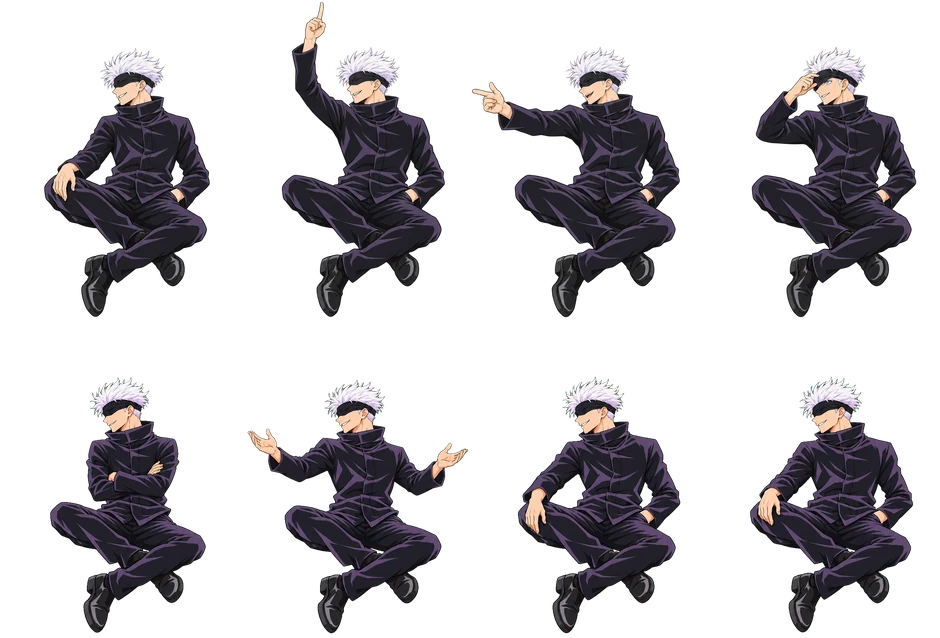
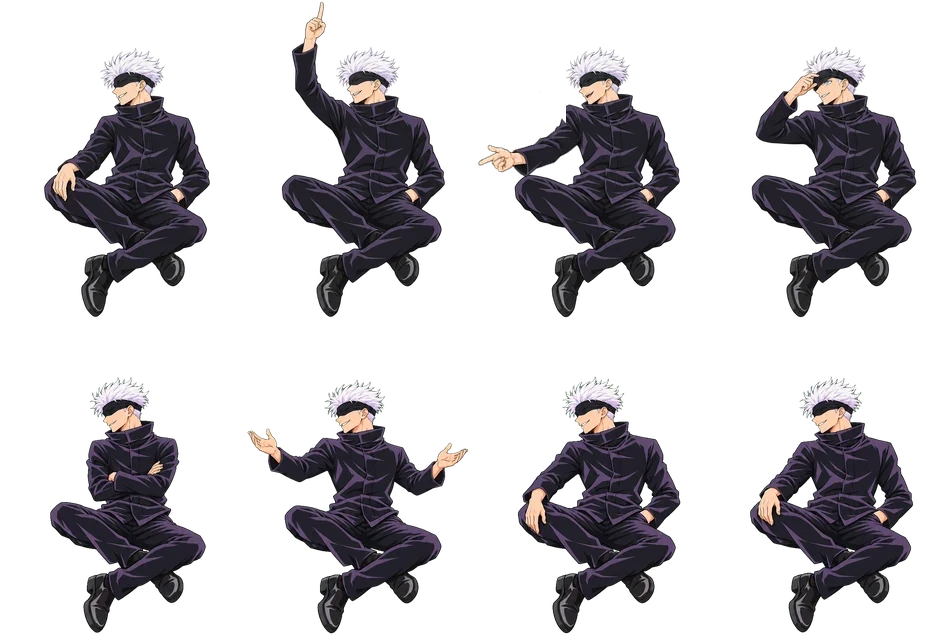
feat: 精美1 B15 出手帧手臂往下转 38°、指尖对准左下的她（切件转臂，B15_gojo/armswing.py），hold.throw 跟着换
原 throw 指尖水平，光球从水平的手里往左下 40° 射（trio_tune 补帧名单）。身子逐像素不变。combo_scan buddy 0 / 0 / 0；正式页 sweep 0 errors。

Changed region(s): [[0.4936, 0.1191, 0.617, 0.268]]

diff --git a/chashouji/web/trio_buddy.js b/chashouji/web/trio_buddy.js
@@ -421,7 +421,7 @@ const TRIO_BUDDY = {
       flex: { idle: [[160, 5, 290, 45, 'b', 3, 0.8]] },   // 冲天白发顶：底边钉住，发梢颤
       /* 紫色光球（raw/orb_src.png，part.py w 140；平面贴图，圆的，转着飞）：wind 帧聚在举起的指尖上方，throw 帧指尖一弹射出去 */
       atk: { kind: 'throw', item: 'orb', prop: 'assets/trio/B15_orb.webp', scale: 0.5,
-             seq: [['wind', 0.35], ['throw', 0.1, 'fire'], ['follow', 0.45]], hold: { wind: [86, -20], throw: [0, 90] },
+             seq: [['wind', 0.35], ['throw', 0.1, 'fire'], ['follow', 0.45]], hold: { wind: [86, -20], throw: [6.5, 164.9] },   // throw 手臂往下转 38° 对准她（buddy/B15_gojo/armswing.py）
              T: 0.4, arc: 0.1, spin: 8, stretch: 0.03, gap: [0.6, 1.0] },
     },
 

diff --git a/chashouji/web/trio_tune.js b/chashouji/web/trio_tune.js
@@ -34,7 +34,7 @@ const TRIO_TUNE = {
   B11: { dir: { throw: 16 } },
   B23: { dir: { throw: 60 }, at: { cell: [510, 294], hold: { throw: [124, 41] } } },   // 三刀往左上扫（复核 4.6-5：刀尖往左上 ≈ 60°）；剑气从上面那把刀的刀尖出（throw 格量）
   B14: { dir: { throw: -67 } },
-  // B15：指尖弹出的光球是能量（走直线、不受重力）—— 手没对准落点，进补帧名单，不写 dir（不让光球按抛物线落）
+  // B15：指尖弹出的光球是能量（走直线、不受重力），不写 dir；throw 手臂已往下转 38° 对准落点（2026-10-02，buddy/B15_gojo/armswing.py）
   B17: { dir: { throw: 0 } },
   B18: { dir: { throw: -15 } },
   B21: { dir: { throw: -52.3 } },

diff --git a/chashouji/v14/trio/buddy/B15_gojo/armswing.py b/chashouji/v14/trio/buddy/B15_gojo/armswing.py
@@ -1,0 +1,18 @@
+"""B15 出手帧（throw）手臂往下转 ROT 度，指尖对准左下方的她（2026-10-02 总控；精1 P12 / trio_tune 补帧名单：手没对准落点）。
+出手点在屏幕 (723, 441)，她的脸在左下约 40°，原 throw 指尖水平向左。throw 帧肩口以左（x < CUT）的整段手臂落在透明背景上，
+抠出来绕肩点转、原位清掉、贴回 —— 身子、头、腿逐像素不变（同 bestie/G8_elsa、G7_yor 的 armswing.py）。
+直接改图集里的 throw 格：frames.py 从 raw 重新 build 之后要再跑一次本脚本。在 chashouji 下：python3 v14/trio/buddy/B15_gojo/armswing.py"""
+import json, os
+import numpy as np
+from PIL import Image
+WEB = os.path.join(os.path.dirname(os.path.abspath(__file__)), '../../../../web/assets/trio')
+CUT, PIV, ROT = 96, (112, 118), 38             # 切口 x、肩点（格内）、往下转多少度（PIL 正 = 逆时针 = 指向左的手往下）
+m = json.load(open(os.path.join(WEB, 'B15_gojo.json'))); a = Image.open(os.path.join(WEB, 'B15_gojo.webp')).convert('RGBA')
+cw, ch = m['cell']; C = m['cols']; i = m['frames'].index('throw'); x0, y0 = i % C * cw, i // C * ch
+A = np.array(a.crop((x0, y0, x0 + cw, y0 + ch)))
+yy, xx = np.mgrid[:ch, :cw]
+sel = (xx < CUT) & (yy > 40) & (yy < 142)      # 手臂 + 翘起的拇指；142 以下是盘着的腿
+arm = A.copy(); arm[~sel] = 0; rest = A.copy(); rest[sel] = 0
+out = Image.fromarray(rest); out.alpha_composite(Image.fromarray(arm).rotate(ROT, resample=Image.BICUBIC, center=PIV))
+a.paste(out, (x0, y0)); a.save(os.path.join(WEB, 'B15_gojo.webp'), 'WEBP', quality=90, method=6)
+print('throw 指尖 (0, 90) → (6.5, 164.9)')
